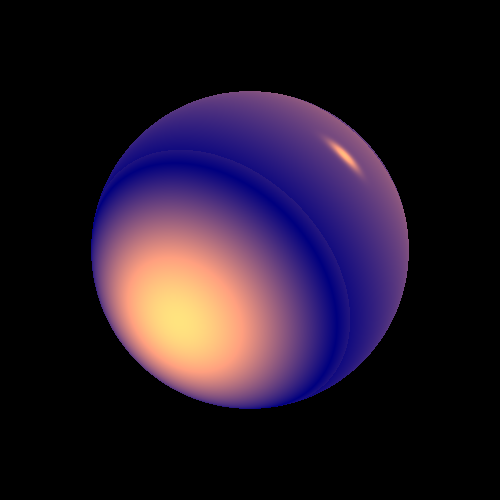
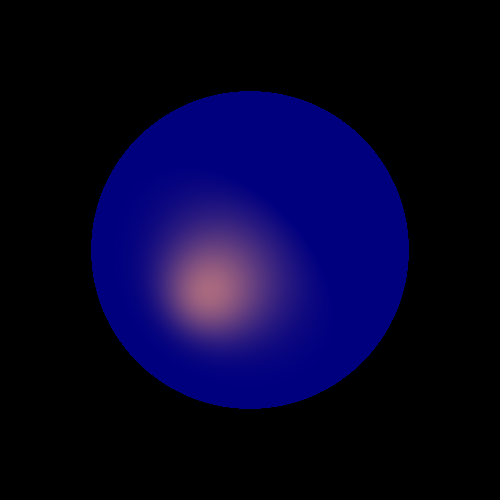
Partial 6

Changed region(s): [[0.18, 0.18, 0.84, 0.84]]

diff --git a/unittests/renderer/LightsTests.java b/unittests/renderer/LightsTests.java
@@ -126,7 +126,7 @@ class LightsTests {
    void sphereSpot() {
       scene1.geometries.add(sphere);
       scene1.lights.add(new SpotLight(sphereLightColor, sphereLightPosition, sphereLightDirection) //
-         .setKl(0.001).setKQ(0.0001));
+         .setKl(0.001).setKQ(0.0001).setNarrowBeam(20));
 
       camera1 //
          .setResolution(500, 500) //
@@ -192,7 +192,7 @@ class LightsTests {
    void trianglesSpotSharp() {
       scene2.geometries.add(triangle1, triangle2);
       scene2.lights.add(new SpotLight(trianglesLightColor, trianglesLightPosition, trianglesLightDirection) //
-         .setKl(0.001).setKQ(0.00004).setNarrowBeam(10));
+         .setKl(0.00001).setKQ(0.00004).setNarrowBeam(10));
 
       camera2.setResolution(500, 500) //
          .build() //
@@ -203,53 +203,62 @@ class LightsTests {
     * Produce a picture of a sphere lighted by combined directional, point, and spot lights
     */
    @Test
-   void sphereMultiLights() {
+   void coolSphereLightingTest() {
+      sphere.setMaterial(new Material().setKD(0.6).setKS(0.4).setShininess(100));
       scene1.geometries.add(sphere);
-      // add multiple light sources: directional, point, spotlight
+      scene1.setAmbientLight(new AmbientLight(new Color(50, 50, 50)));
+
+      // Directional light from above
+      scene1.lights.add(new DirectionalLight(new Color(255, 180, 180), new Vector(0, -1, -1)));
+
+      // Point light from the side
       scene1.lights.add(
-              new DirectionalLight(sphereLightColor, sphereLightDirection)
+              new PointLight(new Color(180, 255, 180), new Point(60, 0, 50))
+                      .setKl(0.001).setKQ(0.0001)
       );
+
+      // Spotlight from below with narrow beam
       scene1.lights.add(
-              new PointLight(sphereLightColor, sphereLightPosition)
-                      .setKl(0.002).setKQ(0.0001)
-      );
-      scene1.lights.add(
-              new SpotLight(sphereLightColor, sphereLightPosition, sphereLightDirection)
-                      .setKl(0.001).setKQ(0.00005).setNarrowBeam(15)
+              new SpotLight(new Color(180, 180, 255), new Point(0, -60, 40), new Vector(0, 1, -0.5))
+                      .setKl(0.001).setKQ(0.00005).setNarrowBeam(10)
       );
 
       camera1
-              .setResolution(500, 500)
+              .setResolution(600, 600)
               .build()
               .renderImage()
-              .writeToImage("TEST1");
+              .writeToImage("CoolSphereLighting");
    }
 
-   /**
-    * Produce a picture of two triangles lighted by combined directional, point, and spot lights
-    */
+
    @Test
-   void trianglesMultiLights() {
+   void testTrianglesContrastLighting() {
       scene2.geometries.add(triangle1, triangle2);
-      // add multiple light sources: directional, point, spotlight
+      scene2.setAmbientLight(new AmbientLight(new Color(20, 20, 20)));
+
+      // אור עוצמתי ראשון רק מצד שמאל
       scene2.lights.add(
-              new DirectionalLight(trianglesLightColor, trianglesLightDirection)
-      );
-      scene2.lights.add(
-              new PointLight(trianglesLightColor, trianglesLightPosition)
-                      .setKl(0.003).setKQ(0.0002)
-      );
-      scene2.lights.add(
-              new SpotLight(trianglesLightColor, trianglesLightPosition, trianglesLightDirection)
-                      .setKl(0.002).setKQ(0.0001).setNarrowBeam(20)
+              new SpotLight(new Color(800, 200, 200), new Point(-100, 50, 0), new Vector(1, -1, -2))
+                      .setKl(0.001).setKQ(0.00005).setNarrowBeam(10)
       );
 
-      camera2
-              .setResolution(500, 500)
+      // אור רך מהצד הימני העליון
+      scene2.lights.add(
+              new DirectionalLight(new Color(100, 100, 255), new Vector(-1, -1, -1))
+      );
+
+      // אור נקודתי קטן מהמרכז – למרקם
+      scene2.lights.add(
+              new PointLight(new Color(100, 255, 100), new Point(0, 20, -50))
+                      .setKl(0.002).setKQ(0.0002)
+      );
+
+      camera2.setResolution(600, 600)
               .build()
               .renderImage()
               .writeToImage("TEST2");
    }
+
 
 
 }

diff --git a/src/lighting/SpotLight.java b/src/lighting/SpotLight.java
@@ -1,60 +1,46 @@
 package lighting;
+
 import primitives.Color;
 import primitives.Point;
 import primitives.Vector;
 
+import static primitives.Util.alignZero;
+
 /**
- * SpotLight class represents a light source with a specific position in the scene
+ * SpotLight represents a light source that has direction and a beam angle.
  */
-public class SpotLight extends PointLight{
+public class SpotLight extends PointLight {
+
     private final Vector direction;
-    private double narrowBeam = 1d;
+    private double narrowBeam = 1.0; // Beam concentration factor
+
+    /**
+     * Constructs a spot light with intensity, position and direction.
+     * @param intensity the color intensity of the light
+     * @param position the position of the light source
+     * @param direction the direction of the spotlight
+     */
+    public SpotLight(Color intensity, Point position, Vector direction) {
+        super(intensity, position);
+        this.direction = direction.normalize();
+    }
 
     public SpotLight setNarrowBeam(double narrowBeam) {
         this.narrowBeam = narrowBeam;
         return this;
     }
 
-
-
-    /**
-     * get intensity of the light at a specific point
-     * @param color color of the light
-     * @param direction direction of the light
-     * @param position position of the light source
-     */
-    public SpotLight(Color color, Point position, Vector direction) {
-        super(color, position);
-        this.direction = direction.normalize();
-    }
-
-    /**
-     * set attenuation factor
-     * @param kC attenuation factor
-     * @return
-     */
-
+    @Override
     public SpotLight setKc(double kC) {
         super.setKc(kC);
         return this;
     }
 
-    /**
-     * set attenuation factor
-     * @param kL attenuation factor
-     * @return this SpotLight instance
-     */
-
-    public PointLight setKl(double kL) {
+    @Override
+    public SpotLight setKl(double kL) {
         super.setKl(kL);
         return this;
     }
-
-    /**
-     * set attenuation factor
-     * @param kQ attenuation factor
-     * @return this SpotLight instance
-     */
 
     public SpotLight setKq(double kQ) {
         super.setKQ(kQ);
@@ -62,13 +48,20 @@ public class SpotLight extends PointLight{
     }
 
     /**
-     * get direction of the light at a specific point
-     * @param p point to which the intensity is calculated
-     * @return direction of the light at a specific point
+     * Returns the attenuated and direction-weighted intensity at point p
      */
     @Override
     public Color getIntensity(Point p) {
-        Color oldColor = super.getIntensity(p);
-        return oldColor.scale(Math.max(0d, direction.dotProduct(getL(p))));
+        Vector l = getL(p);
+        double projection = alignZero(direction.dotProduct(l));
+
+        if (projection <= 0) {
+            return Color.BLACK; // Point is outside of the spotlight cone
+        }
+
+        // scale by beam narrowing factor
+        double factor = Math.pow(projection, narrowBeam);
+
+        return super.getIntensity(p).scale(factor);
     }
 }

diff --git a/src/renderer/SimpleRayTracer.java b/src/renderer/SimpleRayTracer.java
@@ -73,9 +73,10 @@ public class SimpleRayTracer extends RayTracerBase {
         // Compute the dot product between light direction and normal
         intersection.lnDotProduct = alignZero(intersection.lightDirection.dotProduct(intersection.normalAtPoint));
 
-        // Return false if either dot product is zero
-        return !isZero(intersection.lnDotProduct) && !isZero(intersection.vnDotProduct);
+        // ✅ Return false if the light and view are on opposite sides of the surface
+        return intersection.vnDotProduct * intersection.lnDotProduct > 0;
     }
+
 
 
 

diff --git a/src/lighting/PointLight.java b/src/lighting/PointLight.java
@@ -45,8 +45,9 @@ public class PointLight extends Light implements LightSource {
         double distanceSquared = p.distanceSquared(position);
         double distance = Math.sqrt(distanceSquared);
         double attenuation = kC + kL * distance + kQ * distanceSquared;
-        return intensity.reduce((int) attenuation);
+        return intensity.scale(1.0 / attenuation); // במקום reduce()
     }
+
 
     @Override
     public Vector getL(Point p) {
